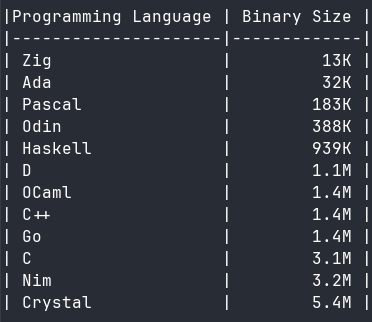
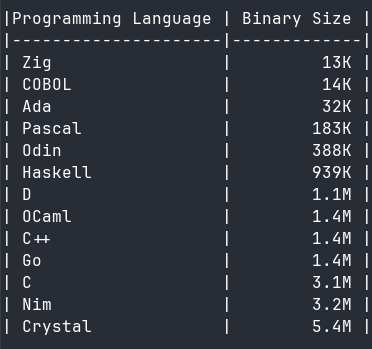
Added COBOL

diff --git a/lang_compare/readme.md b/lang_compare/readme.md
@@ -1,6 +1,6 @@
 # Statically Linked "Hello, World!" Binary Size Comparison
 
-This project collects simple **Hello, World!** programs in C, C++, Go, Ada, Pascal, D, Nim, Zig, Crystal, Haskell, Odin, OCaml. All built as **fully static** (self-contained) executables with no dynamic library dependencies.
+This project collects simple **Hello, World!** programs in C, C++, Go, Ada, Pascal, D, Nim, Zig, Crystal, Haskell, Odin, OCaml, COBOL. All built as **fully static** (self-contained) executables with no dynamic library dependencies.
 
 Goal: Compare the resulting binary file sizes for portable, single-file binaries.
 
@@ -28,6 +28,7 @@ Crystal: crystal build --static hello.cr -o hello --release
 Haskell: ghc -static hello.hs -o hello_hs -O2 -optl=-s
 Odin     odin build hello.odin -file -out:hello
 OCaml    ocamlopt hello.ml -o hello
+COBOL    cobc -x -static hello.cob -o hello
 ```
 
 ### Binary size comparison chart
